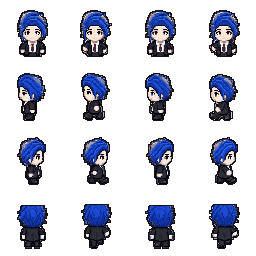
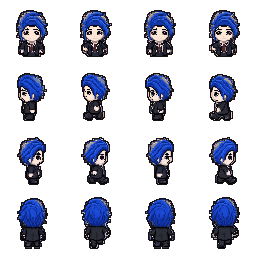
fix(sprites): restore full round head contours for facing-up poses, remove all white halo specks, and dynamically segment sprite columns across all 26 characters

diff --git a/tools/normalize_sprite_anchors.py b/tools/normalize_sprite_anchors.py
@@ -14,77 +14,95 @@ TARGET_MAX_H = 50
 OUTLINE = (24, 18, 22, 255)
 
 
+def dynamic_column_split(row_alpha: np.ndarray) -> list[tuple[int, int]]:
+    col_proj = np.sum(row_alpha > 0, axis=0) > 0
+    labeled, num = ndimage.label(col_proj)
+    if num >= 4:
+        sizes = ndimage.sum_labels(col_proj, labeled, range(1, num + 1))
+        large_labels = sorted(range(1, num + 1), key=lambda l: sizes[l - 1], reverse=True)[:4]
+        large_labels.sort(key=lambda l: int(np.argwhere(labeled == l).min()))
+
+        splits = [0]
+        for i in range(3):
+            l_cur = large_labels[i]
+            l_next = large_labels[i + 1]
+            end_cur = int(np.argwhere(labeled == l_cur).max())
+            start_next = int(np.argwhere(labeled == l_next).min())
+            split_x = (end_cur + start_next) // 2
+            splits.append(split_x)
+        splits.append(256)
+        return [(int(splits[i]), int(splits[i + 1])) for i in range(4)]
+    return [(0, 75), (75, 127), (127, 178), (178, 256)]
+
+
 def clean_and_normalize_sheet(source: Path, destination: Path) -> None:
     original = Image.open(source).convert("RGBA")
-    arr = np.asarray(original)
+    arr = np.asarray(original).copy()
 
-    cleaned_frames: list[Image.Image] = []
+    # 1. Clean neutral white / grey noise specks across the entire sheet
+    r_c, g_c, b_c = arr[..., 0], arr[..., 1], arr[..., 2]
+    alpha = arr[..., 3]
+    max_rgb = np.maximum(np.maximum(r_c, g_c), b_c)
+    min_rgb = np.minimum(np.minimum(r_c, g_c), b_c)
+    chroma = max_rgb - min_rgb
+
+    is_white_noise = (alpha > 0) & (min_rgb > 205) & (chroma < 14)
+    eroded = ndimage.binary_erosion(alpha > 20, iterations=2)
+    outer_perimeter = (alpha > 0) & ~eroded
+    is_pale_fringe = outer_perimeter & (min_rgb > 190) & (chroma < 35)
+
+    arr[is_white_noise | is_pale_fringe] = 0
+
+    frames: list[Image.Image] = []
+    boxes: list[tuple[int, int, int, int] | None] = []
 
     for row in range(4):
-        for column in range(4):
-            cell = arr[row * CELL : (row + 1) * CELL, column * CELL : (column + 1) * CELL].copy()
-            alpha = cell[..., 3]
+        # Row 3 (facing up) has round head overflow from row 2
+        overflow_top = 12 if row == 3 else 0
+        y1_src = max(0, row * CELL - overflow_top)
+        y2_src = (row + 1) * CELL
 
-            # 1. Remove disconnected leak components from adjacent cells
-            binary = alpha > 20
+        row_slice = arr[y1_src:y2_src, :].copy()
+
+        # If row 2, clear the bottom 10px where row 3 head might leak
+        if row == 2 and row_slice.shape[0] == CELL:
+            row_slice[54:, :] = 0
+
+        col_splits = dynamic_column_split(row_slice[..., 3])
+
+        for col in range(4):
+            x1_src, x2_src = col_splits[col]
+            cell = row_slice[:, x1_src:x2_src].copy()
+
+            # Remove edge leak components
+            binary = cell[..., 3] > 20
             labeled, num_features = ndimage.label(binary)
             if num_features > 0:
                 sizes = ndimage.sum_labels(binary, labeled, range(1, num_features + 1))
-                main_label = int(np.argmax(sizes)) + 1
-                largest_size = float(sizes[main_label - 1])
+                largest_size = float(max(sizes))
 
-                keep_mask = np.zeros_like(binary)
                 for label_idx, size in enumerate(sizes, 1):
                     pts = np.argwhere(labeled == label_idx)
-                    touches_top = pts[:, 0].min() == 0
-                    touches_bottom = pts[:, 0].max() == CELL - 1
-                    touches_left = pts[:, 1].min() == 0
-                    touches_right = pts[:, 1].max() == CELL - 1
+                    touches_edge = (
+                        pts[:, 0].min() <= 1
+                        or pts[:, 0].max() >= cell.shape[0] - 2
+                        or pts[:, 1].min() <= 1
+                        or pts[:, 1].max() >= cell.shape[1] - 2
+                    )
+                    if touches_edge and size < largest_size * 0.20:
+                        cell[labeled == label_idx] = 0
 
-                    if label_idx == main_label:
-                        keep_mask |= (labeled == label_idx)
-                    elif (touches_top or touches_bottom or touches_left or touches_right) and size < largest_size * 0.35:
-                        continue
-                    elif size >= 4:
-                        keep_mask |= (labeled == label_idx)
+            frame_img = Image.fromarray(cell, "RGBA")
+            frames.append(frame_img)
 
-                cell[~keep_mask] = 0
-
-            # 2. Remove white / pale edge fringe pixels on the outer perimeter
-            eroded = ndimage.binary_erosion(cell[..., 3] > 0)
-            perimeter = (cell[..., 3] > 0) & ~eroded
-
-            r_c, g_c, b_c = cell[..., 0], cell[..., 1], cell[..., 2]
-            max_c = np.maximum(np.maximum(r_c, g_c), b_c)
-            min_c = np.minimum(np.minimum(r_c, g_c), b_c)
-            sat = max_c - min_c
-
-            is_pale_fringe = perimeter & (max_c > 195) & (sat < 40)
-            is_white_fringe = perimeter & (r_c > 210) & (g_c > 200) & (b_c > 190)
-
-            cell[is_pale_fringe | is_white_fringe] = 0
-
-            # Secondary pass for isolated residue pixels
-            binary2 = cell[..., 3] > 20
-            labeled2, num2 = ndimage.label(binary2)
-            if num2 > 0:
-                sizes2 = ndimage.sum_labels(binary2, labeled2, range(1, num2 + 1))
-                keep_mask2 = np.isin(labeled2, [i for i, s in enumerate(sizes2, 1) if s >= 4])
-                cell[~keep_mask2] = 0
-
-            cleaned_frames.append(Image.fromarray(cell, "RGBA"))
-
-    # Extract tight bounding boxes across all frames
-    boxes: list[tuple[int, int, int, int] | None] = []
-    for frame in cleaned_frames:
-        f_alpha = np.asarray(frame.getchannel("A"))
-        pts = np.argwhere(f_alpha > 0)
-        if pts.size > 0:
-            y1, x1 = pts.min(axis=0)
-            y2, x2 = pts.max(axis=0) + 1
-            boxes.append((int(x1), int(y1), int(x2), int(y2)))
-        else:
-            boxes.append(None)
+            f_alpha = np.asarray(frame_img.getchannel("A"))
+            pts = np.argwhere(f_alpha > 0)
+            if pts.size > 0:
+                y1, x1 = pts.min(axis=0)
+                y2, x2 = pts.max(axis=0) + 1
+                boxes.append((int(x1), int(y1), int(x2), int(y2)))
+            else:
+                boxes.append(None)
 
     widths = [b[2] - b[0] for b in boxes if b]
     heights = [b[3] - b[1] for b in boxes if b]
@@ -92,7 +110,7 @@ def clean_and_normalize_sheet(source: Path, destination: Path) -> None:
 
     output = Image.new("RGBA", (SHEET, SHEET), (0, 0, 0, 0))
 
-    for idx, (frame, box) in enumerate(zip(cleaned_frames, boxes)):
+    for idx, (frame, box) in enumerate(zip(frames, boxes)):
         if box is None:
             continue
         cropped = frame.crop(box)
@@ -114,18 +132,17 @@ def clean_and_normalize_sheet(source: Path, destination: Path) -> None:
         x = round(CELL / 2 - x_center)
         y = baseline - cropped.height
 
-        # Ensure frame fits completely inside 64x64 with safe padding (no bleed)
         x = max(3, min(CELL - 3 - cropped.width, x))
         y = max(3, min(CELL - 3 - cropped.height, y))
 
         cell_img = Image.new("RGBA", (CELL, CELL), (0, 0, 0, 0))
         cell_img.alpha_composite(cropped, (x, y))
 
-        # Add crisp pixel outline
-        a_channel = cell_img.getchannel("A")
-        expanded = a_channel.filter(ImageFilter.MaxFilter(3))
+        # Add clean crisp dark outline
+        a_chan = cell_img.getchannel("A")
+        expanded = a_chan.filter(ImageFilter.MaxFilter(3))
         outline_a = np.maximum(
-            np.asarray(expanded, dtype=np.int16) - np.asarray(a_channel, dtype=np.int16),
+            np.asarray(expanded, dtype=np.int16) - np.asarray(a_chan, dtype=np.int16),
             0,
         ).astype(np.uint8)
         outline_img = Image.new("RGBA", (CELL, CELL), OUTLINE)
